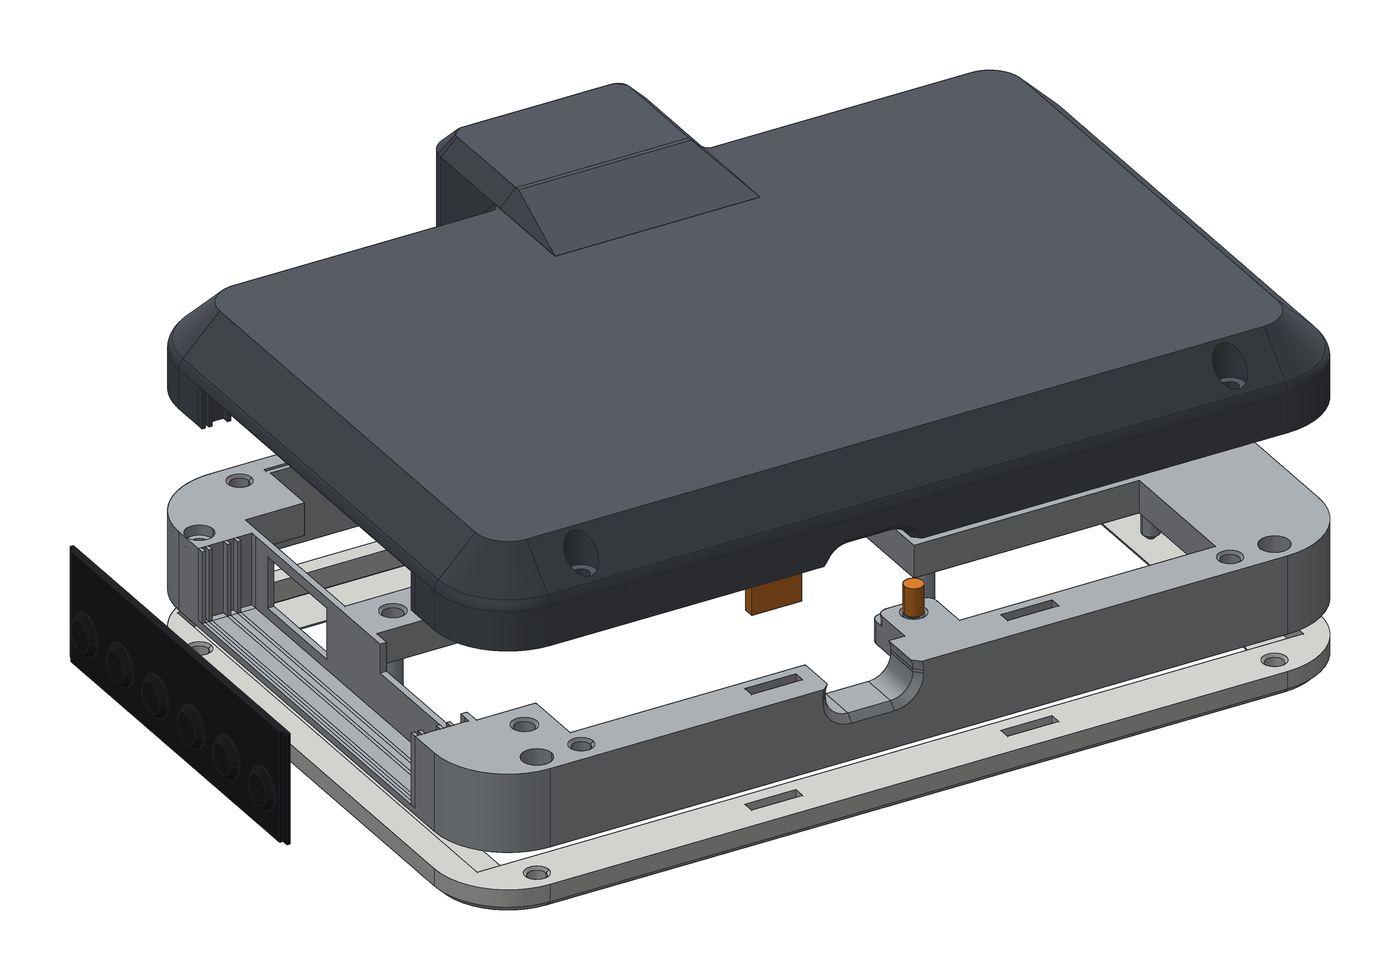
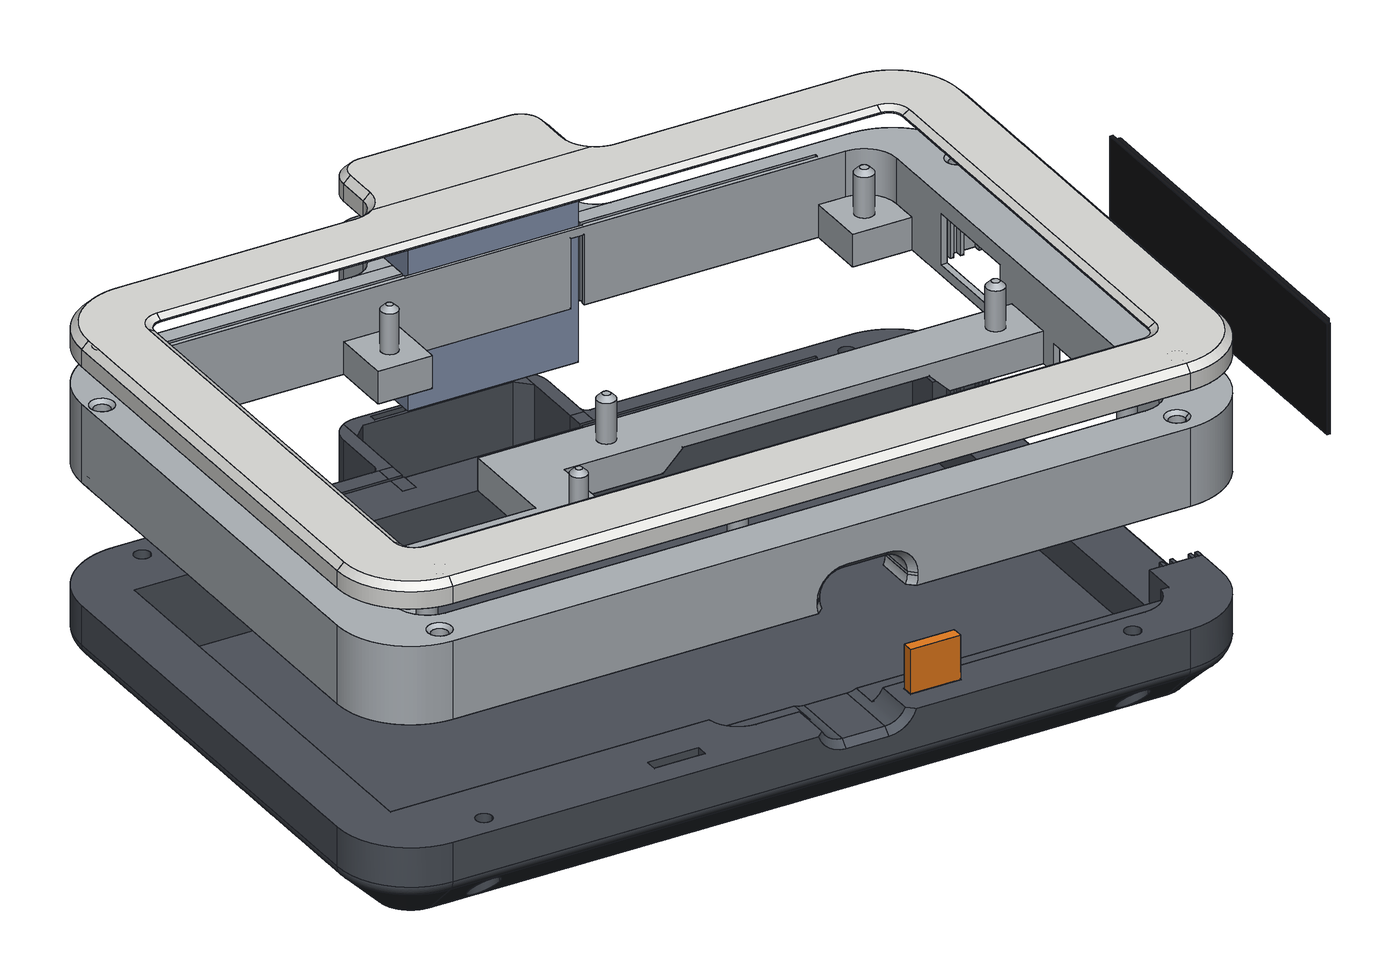
docs: render enclosure display side up

diff --git a/README.md b/README.md
@@ -119,7 +119,7 @@ The mainboard renders went to the fab with the gerbers; the power board and butt
   <a href="hardware/docs/images/render-enclosure-proto2.png"><img src="hardware/docs/images/render-enclosure-proto2.png" width="700" alt="FreeCAD model of case prototype 2: top shell, PCB and display brackets, TPU button cover"></a>
 </p>
 
-Case prototype 2 ([`RoCo_case_prototype_2.FCStd`](hardware/enclosure/RoCo_case_prototype_2.FCStd)), with the parts in their model positions: the top shell with its GNSS antenna hood, the PCB bracket, the display bracket below it, and the TPU cover for the button panel. The 3MF print exports are in [`hardware/enclosure`](hardware/enclosure).
+Case prototype 2 ([`RoCo_case_prototype_2.FCStd`](hardware/enclosure/RoCo_case_prototype_2.FCStd)), with the parts in their model positions, display side up: the shell at the bottom, the PCB bracket, the display bracket on top, and the TPU cover for the button panel to the right. The 3MF print exports are in [`hardware/enclosure`](hardware/enclosure).
 
 ### Schematics
 
